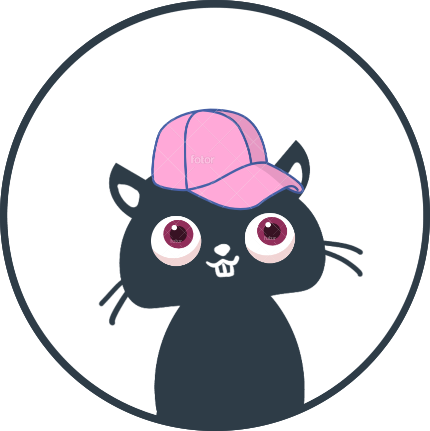
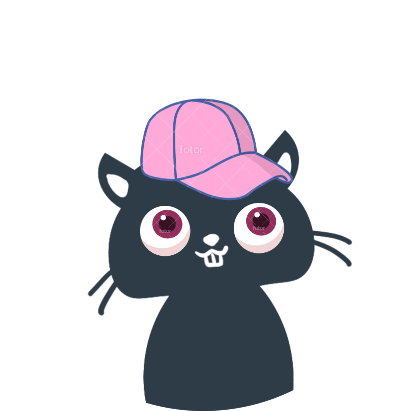
feat: border 없는 profile image 분리 및 선택 애니메이션 추가

diff --git a/src/components/chat/ProfileSelector/index.tsx b/src/components/chat/ProfileSelector/index.tsx
@@ -1,5 +1,6 @@
+import { useEffect } from 'react';
 import { Divider, Grid } from '@mui/material';
-import { motion } from 'framer-motion';
+import { motion, useAnimation } from 'framer-motion';
 import styled, { css } from 'styled-components';
 
 interface ProfileSelectorProps {
@@ -19,18 +20,41 @@ const ProfileSelector = ({ profileId = 1, onChange }: ProfileSelectorProps) => {
     { id: 8, src: '/images/profile8.png', isNew: true },
     { id: 9, src: '/images/profile9.png', isNew: true },
   ];
+  /** 프로필의 개별 애니메이션 상태관리 */
+  const controlsMap = profileData.reduce(
+    (acc, { id }) => {
+      acc[id] = useAnimation();
+      return acc;
+    },
+    {} as Record<number, ReturnType<typeof useAnimation>>,
+  );
+
+  /** 프로필의 id가 변경될때 실행되는 애니메이션 */
+  useEffect(() => {
+    const controls = controlsMap[profileId];
+    controls
+      .start({
+        scale: [1, 1.5, 1, 1.5, 1],
+        y: [0, -20, 0, -20, 0],
+        transition: { duration: 1, ease: 'easeInOut' },
+      })
+      .then(() => {
+        setTimeout(() => {
+          controls.start({
+            rotate: [-5, 5, -5, 5, -5, 5, -5, 5, -5, 5, 0],
+            transition: { duration: 0.5, ease: 'easeInOut' },
+          });
+        }, 1000);
+      });
+  }, [profileId]);
 
   return (
     <>
       <Divider />
-      <Grid container direction={'row'} gap={'10px'} marginTop={'20px'} justifyContent={'center'}>
+      <Grid container direction="row" gap="10px" marginTop="20px" justifyContent="center">
         {profileData.map(({ id, src, isNew }) => (
           <AvatarWrapper key={id} onClick={() => onChange(id)} $isActive={profileId === id} $isNew={isNew}>
-            <StyledAvatar
-              src={src}
-              animate={profileId === id ? { rotate: [0, -1, 1, -1, 1, 0] } : {}}
-              transition={{ repeat: 2, duration: 0.3, ease: 'easeInOut' }}
-            />
+            <StyledAvatar src={src} animate={profileId === id ? controlsMap[id] : {}} />
           </AvatarWrapper>
         ))}
       </Grid>
@@ -42,13 +66,17 @@ export default ProfileSelector;
 
 const AvatarWrapper = styled.div<{ $isActive: boolean; $isNew?: boolean }>`
   ${({ theme, $isActive, $isNew }) => {
-    const { font } = theme;
     return css`
       width: 160px;
       height: 160px;
       border-radius: 50%;
-      border: 5px solid ${$isActive ? 'skyblue' : '#fff'};
+      border: 5px solid ${$isActive ? 'skyblue' : '#eee'};
       position: relative;
+      display: flex;
+      align-items: center;
+      justify-content: center;
+      background-color: #fff;
+      overflow: hidden;
 
       ${$isNew &&
       css`
@@ -56,7 +84,7 @@ const AvatarWrapper = styled.div<{ $isActive: boolean; $isNew?: boolean }>`
           content: 'NEW!';
           position: absolute;
           top: 10px;
-          right: 10px;
+          right: 26px;
           background-color: ${$isActive ? 'green' : 'red'};
           color: #fff;
           border: 2px solid #fff;
@@ -72,11 +100,11 @@ const AvatarWrapper = styled.div<{ $isActive: boolean; $isNew?: boolean }>`
 
 const StyledAvatar = styled(motion.img)`
   ${({ theme }) => {
-    const { font } = theme;
     return css`
       width: 150px;
       height: 150px;
       object-fit: cover;
+      border-radius: 50%; /* Ensure the image is also rounded */
     `;
   }}
 `;

diff --git a/src/app/chat/page.tsx b/src/app/chat/page.tsx
@@ -127,11 +127,9 @@ const Container = styled.div`
   ${({ theme }) => {
     const { colors } = theme;
     return css`
-      height: calc(100vh - 150px);
       max-width: 1024px;
       margin: 0 auto;
-      padding: 80px 0 20px;
-      overflow: hidden;
+      padding-top: 40px;
     `;
   }}
 `;
@@ -155,7 +153,7 @@ const PageTitle = styled.div`
 const NoRoomsMessage = styled.div`
   color: #333;
   font-weight: 800;
-  height: 100%;
+  height: 500px;
   display: flex;
   flex-direction: column;
   align-items: center;
